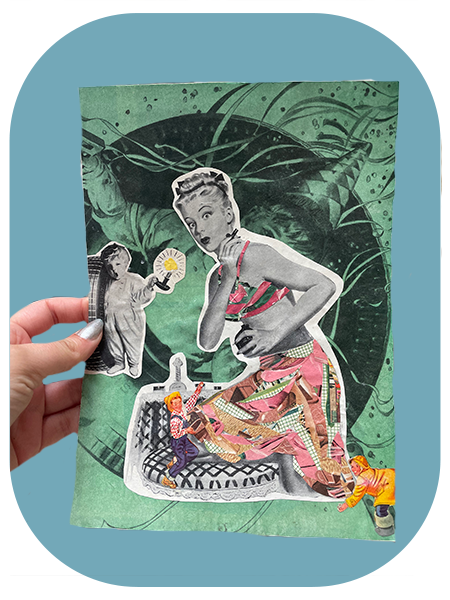
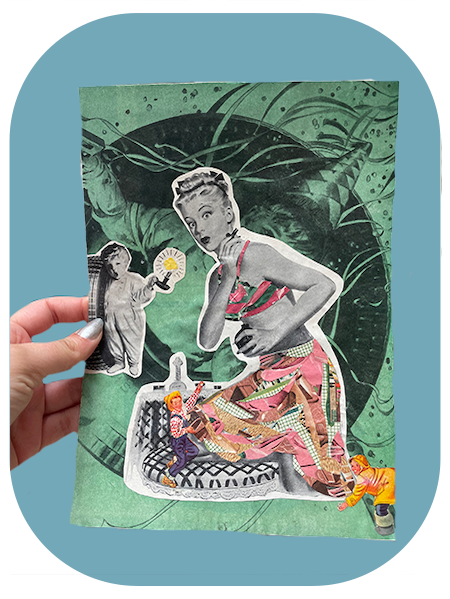
update
4/8 9:31 am

diff --git a/blog_1/blog_1.html b/blog_1/blog_1.html
@@ -92,8 +92,7 @@
             For this creative session, I created a card! I chose to use thick cardstock as a base. I also used cardstock on a separate sheet to create my little characters and additional elements that I added to the page. This 3d effect adds dimensionality that I love. I also think being able to glue pieces after having painted them lets me get my hands dirty which I find enjoyable</p>
         </div>
 
-        <div class="handsonface"> <!-- article two-->
-            <img src="/blog_1/img/collagenew.png" alt="collage">
+        <div class="collagesprite"> <!-- article two-->
         </div>
     </section>
 

diff --git a/blog_1/css/blog1.css b/blog_1/css/blog1.css
@@ -192,6 +192,18 @@ h2 {
 }
 
 
+.collagesprite {
+    height: 1198px;
+    width: 450px;
+    background: url(img/collagesprite.png) 0 0; /* Adjust the image path and position */
+}
+
+.collagesprite:hover {
+    background: url(img/collagesprite.png) 0 -599px; /* Adjust the image path and hover position */
+}
+
+
+
 
 
 
